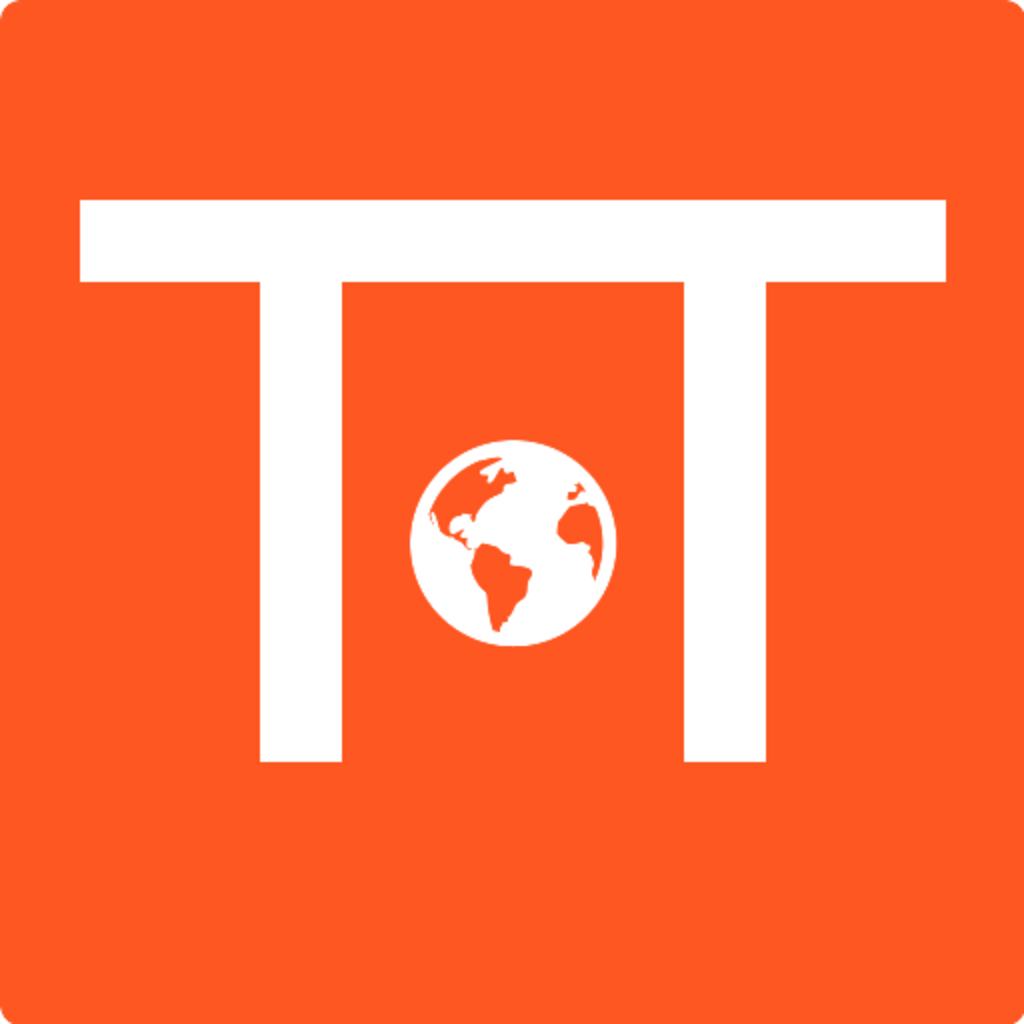
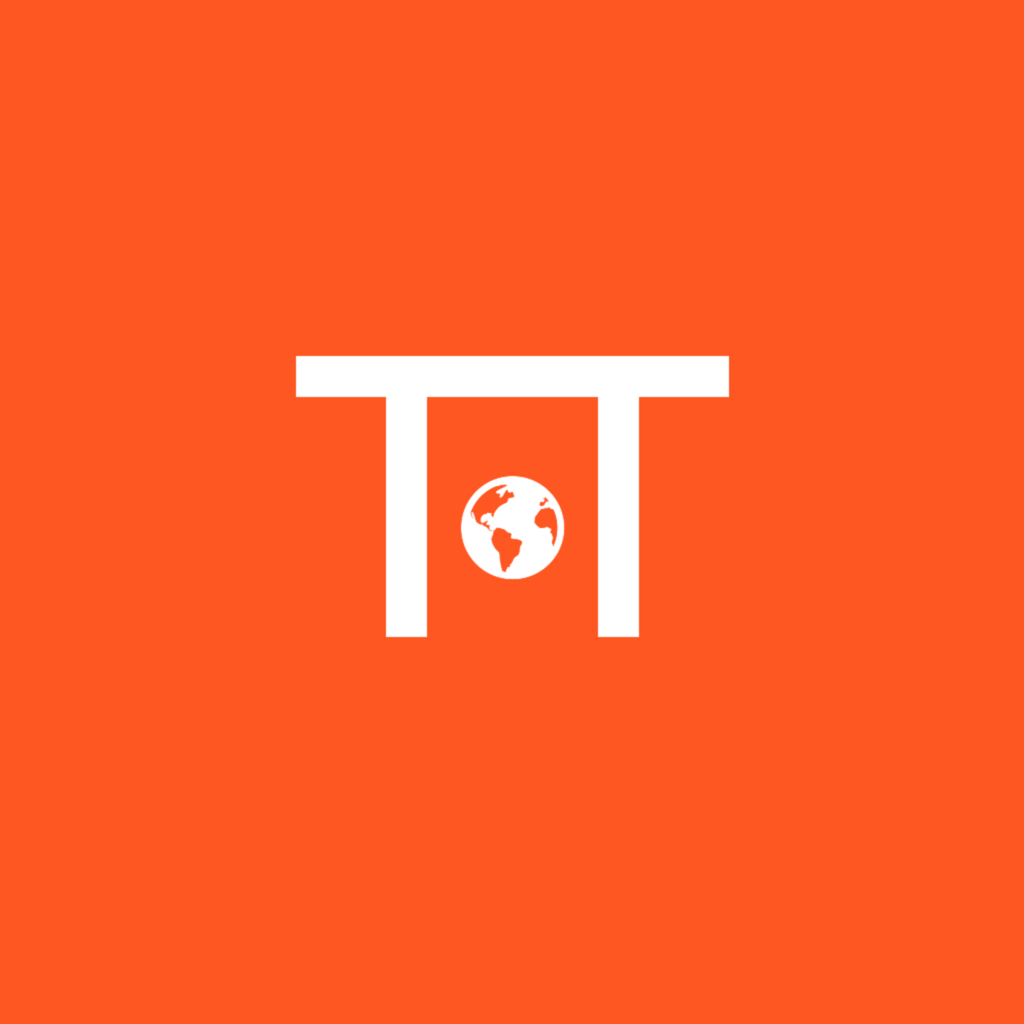
android images

Changed region(s): [[0.0625, 0.1875, 0.9375, 0.75], [0.0, 0.0, 0.0312, 0.0312]]

diff --git a/src/services/audioManager.js b/src/services/audioManager.js
@@ -32,11 +32,21 @@ class AudioManager {
         interruptionMode: 'doNotMix',
       });
 
-      // Pre-load artwork asset for lock screen
+      // Pre-load artwork asset for lock screen / media notification
       try {
-        const asset = Asset.fromModule(require('../../assets/app-store-icon.png'));
+        const asset = Asset.fromModule(require('../../assets/EarthAudio.jpg'));
         await asset.downloadAsync();
-        this.artworkUri = asset.localUri;
+        // On Android, ensure we have a proper file:// URI for the media notification
+        // Asset.fromModule can return a drawable resource name which may render at low resolution
+        if (asset.localUri && asset.localUri.startsWith('file://')) {
+          this.artworkUri = asset.localUri;
+        } else if (asset.uri && asset.uri.startsWith('file://')) {
+          this.artworkUri = asset.uri;
+        } else if (asset.localUri) {
+          this.artworkUri = asset.localUri;
+        } else {
+          this.artworkUri = asset.uri;
+        }
         logger.debug('Lock screen artwork loaded:', this.artworkUri);
       } catch (e) {
         logger.error('Failed to load lock screen artwork:', e);

diff --git a/src/components/AudioPlayer.js b/src/components/AudioPlayer.js
@@ -128,6 +128,12 @@ const AudioPlayer = ({ placeId, audioUrl, placeName, tourType = 'history' }) => 
 
 
 
+  // Helper to format tour type for display
+  const formatTourType = (type) => {
+    if (type === 'event:portland-winter-lights') return 'PWLF';
+    return type.charAt(0).toUpperCase() + type.slice(1);
+  };
+
   if (isLoading) {
     return (
       <View style={dynamicStyles.container}>
@@ -155,7 +161,7 @@ const AudioPlayer = ({ placeId, audioUrl, placeName, tourType = 'history' }) => 
         <>
           {/* Tour type title */}
           <Text style={dynamicStyles.tourTypeTitle}>
-            {tourType.charAt(0).toUpperCase() + tourType.slice(1)} Tour
+            {formatTourType(tourType)} Tour
           </Text>
           
           <View style={styles.sliderContainer}>

diff --git a/app.config.js b/app.config.js
@@ -34,6 +34,11 @@ export default {
         foregroundImage: "./assets/adaptive-icon.png",
         backgroundColor: "#FF5722"
       },
+      splash: {
+        image: "./assets/android-splash.png",
+        resizeMode: "contain",
+        backgroundColor: "#FF5722"
+      },
       package: "com.tensortours.app",
       versionCode: 1,
       config: {
